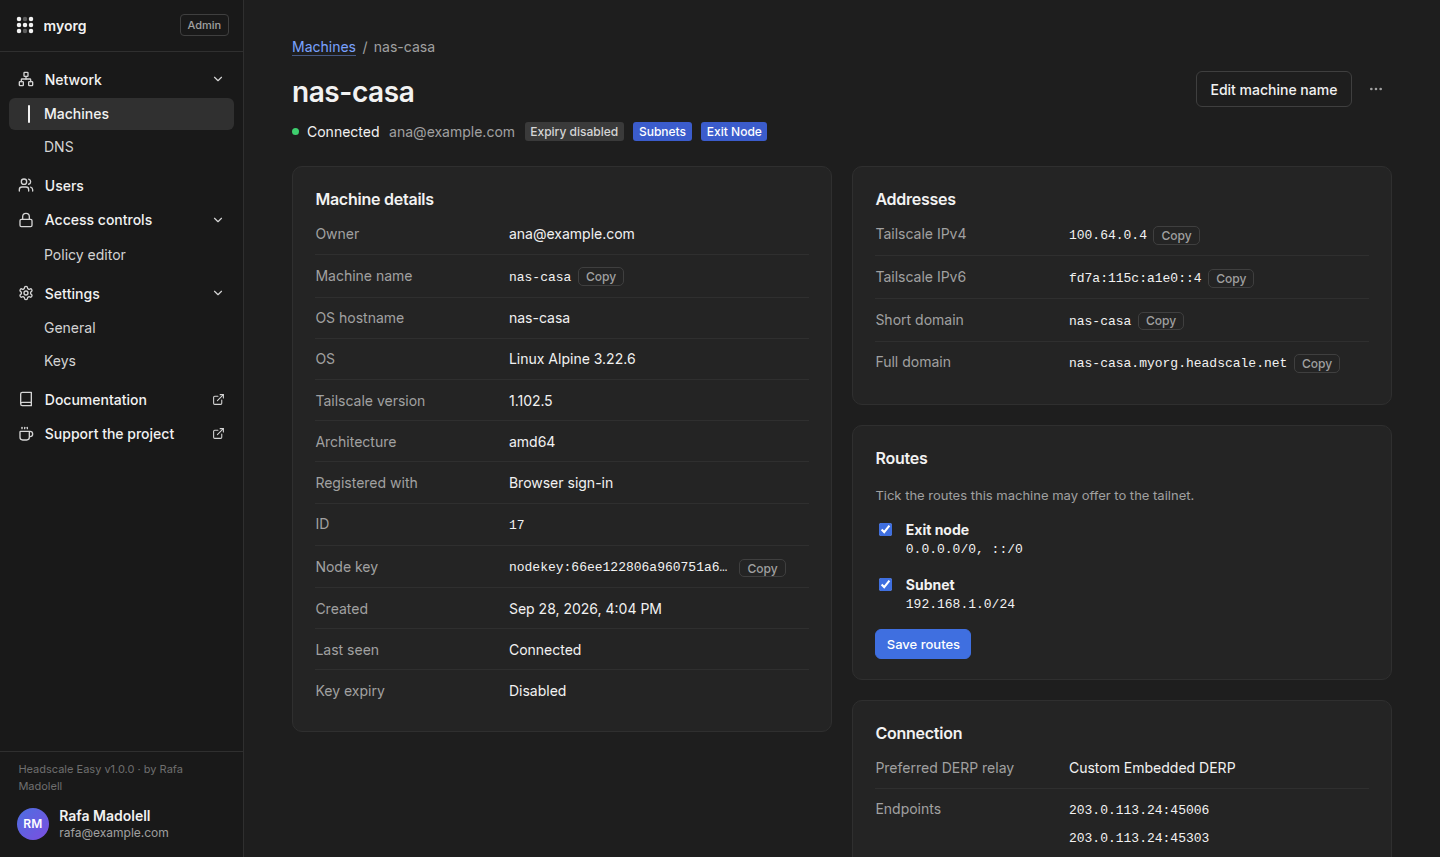
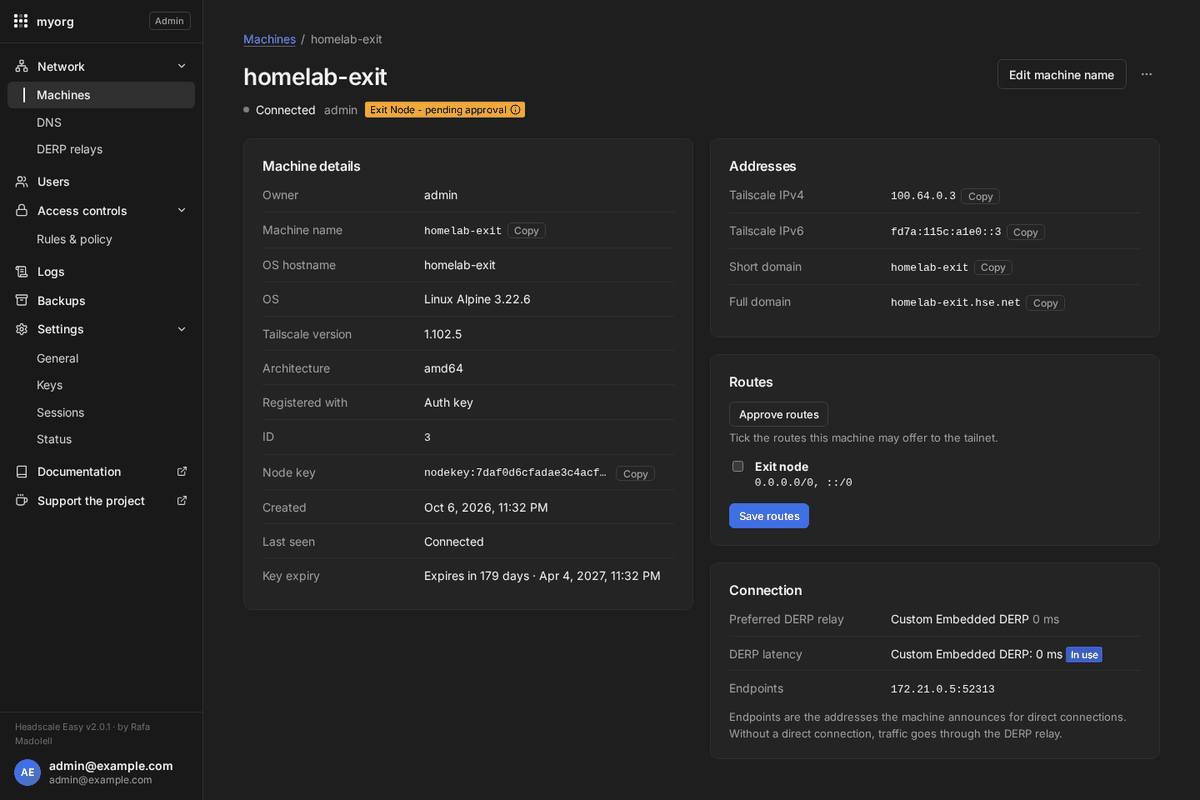
docs: refresh README and screenshots for 2.0.2 (Docker tab, pending routes)

diff --git a/README.es.md b/README.es.md
@@ -85,6 +85,13 @@ consola. Mira la [comparativa detallada](https://insanerask77.github.io/headscal
 - 📱 **Máquinas**: estado, direcciones, sistema y versión del cliente con aviso de
   actualización, renombrar, expirar, eliminar, caducidad de clave, etiquetas,
   **rutas de subred y exit nodes**, filtros, búsqueda y exportación CSV.
+- 🐳 **Pestaña Docker en Añadir dispositivo**: genera el `docker run` y el
+  `docker-compose.yml` de un contenedor Tailscale (exit node, rutas de subred,
+  modo userspace, versión de Tailscale fijada), deja la clave en un `.env`
+  aparte, da el comando para aplicar un cambio a un contenedor que ya corre y
+  incluye un desplegable de ayuda con once problemas habituales.
+- ✅ **Rutas pendientes de aprobar**: la insignia de la máquina lo indica, se
+  aprueban con un clic y los administradores ven un aviso que las cuenta.
 - 🔑 **Claves de autenticación** (de un uso, reutilizables, efímeras) y API keys;
   registro de dispositivos por Auth ID.
 - 🌐 **DNS**: MagicDNS, dominio de la tailnet, nameservers, split DNS, dominios de
@@ -112,6 +119,10 @@ consola. Mira la [comparativa detallada](https://insanerask77.github.io/headscal
 | ![Controles de acceso](docs/images/access-controls.png) | ![Claves](docs/images/keys.png) |
 | **Inicio de sesión** | **Añadir dispositivo** |
 | ![Inicio de sesión](docs/images/sign-in.png) | ![Añadir dispositivo](docs/images/add-device.png) |
+| **Añadir dispositivo, pestaña Docker** | **Ayuda de Docker** |
+| ![Pestaña Docker](docs/images/add-device-docker.png) | ![Ayuda de Docker](docs/images/docker-troubleshooting.png) |
+| **Rutas pendientes de aprobar (claro)** | **Máquinas (oscuro)** |
+| ![Rutas pendientes](docs/images/machine-pending-routes.png) | ![Máquinas, tema oscuro](docs/images/machines-dark.png) |
 
 ## 🚀 Inicio rápido
 

diff --git a/README.md b/README.md
@@ -87,6 +87,13 @@ includes its own console. See the [detailed comparison](https://insanerask77.git
 - 📱 **Machines**: status, addresses, OS and client version with update hints,
   rename, expire, remove, key expiry, tags, **subnet routes and exit nodes**,
   filters, search and CSV export.
+- 🐳 **Docker tab in Add device**: generates the `docker run` and `docker-compose.yml`
+  for a Tailscale container (exit node, subnet routes, userspace mode, a
+  pinned Tailscale version), keeps the auth key in a separate `.env`, gives the
+  command to apply a changed option to a running container, and has a
+  troubleshooting dropdown with eleven common problems.
+- ✅ **Routes waiting for approval** are flagged in the machine's badge, can be
+  approved in one click, and administrators see a banner counting them.
 - 🔑 **Auth keys** (one-off, reusable, ephemeral) and API keys; register
   devices by auth ID.
 - 🌐 **DNS**: MagicDNS, tailnet domain, nameservers, split DNS, search domains —
@@ -114,6 +121,10 @@ includes its own console. See the [detailed comparison](https://insanerask77.git
 | ![Access controls](docs/images/access-controls.png) | ![Keys](docs/images/keys.png) |
 | **Sign in** | **Add device** |
 | ![Sign in](docs/images/sign-in.png) | ![Add device](docs/images/add-device.png) |
+| **Add device, Docker tab** | **Docker troubleshooting and tips** |
+| ![Docker tab](docs/images/add-device-docker.png) | ![Docker troubleshooting](docs/images/docker-troubleshooting.png) |
+| **Routes pending approval (light)** | **Machines (dark)** |
+| ![Pending routes](docs/images/machine-pending-routes.png) | ![Machines, dark theme](docs/images/machines-dark.png) |
 
 ## 🚀 Quick start
 
